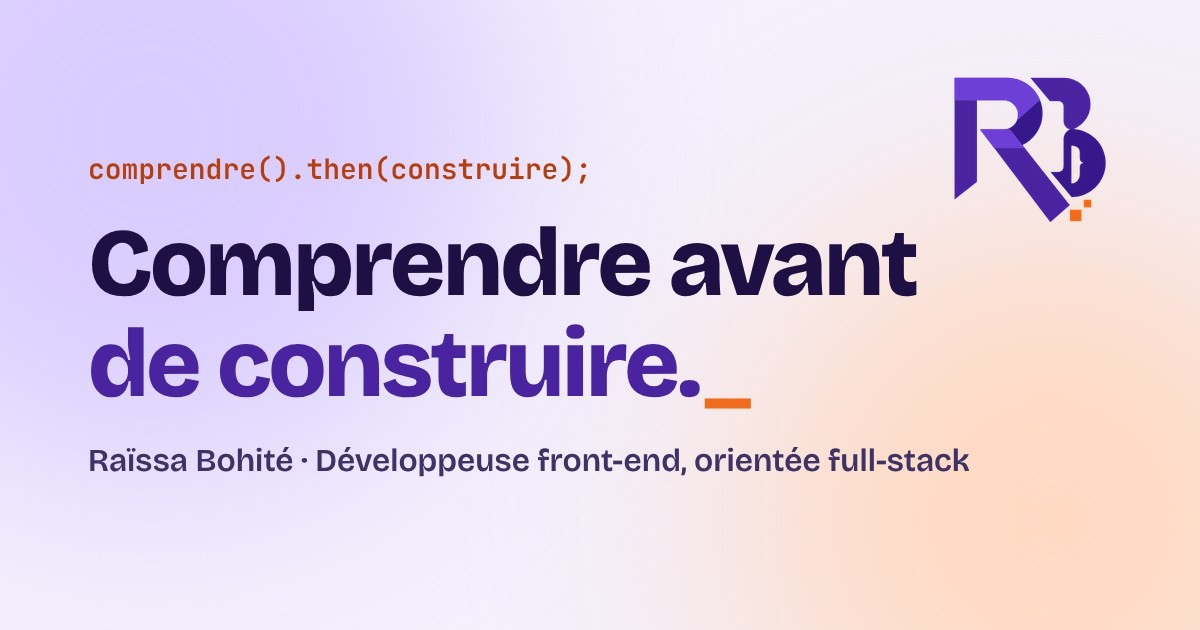
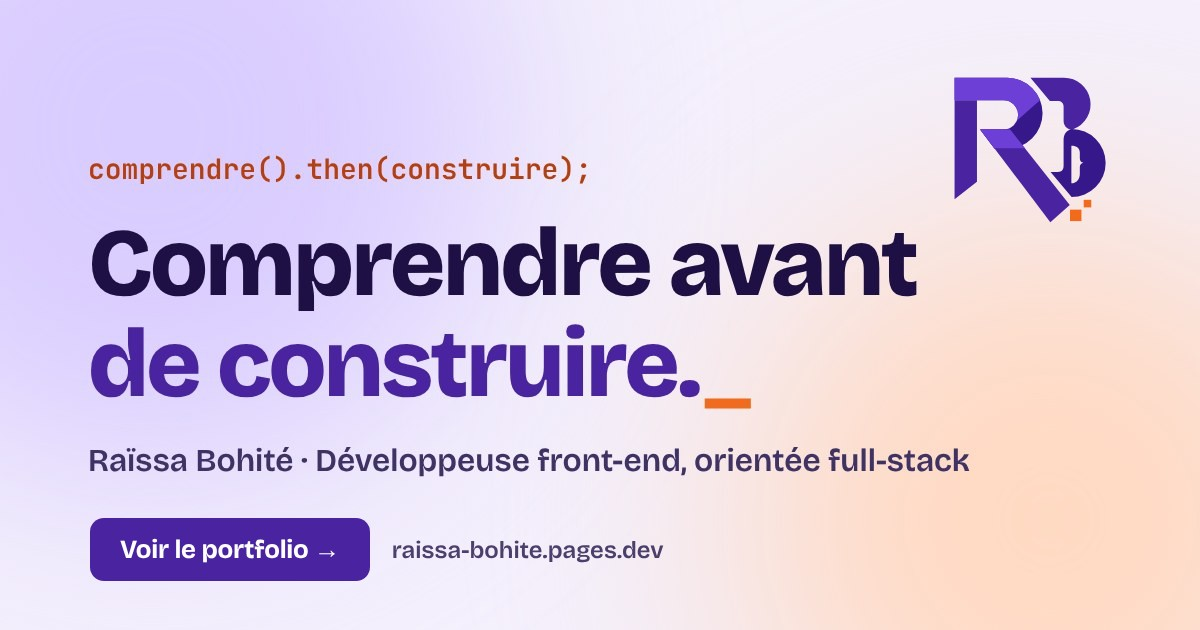
feat: add a call to action to the social image and shorten home descriptions
Claude-Session: https://claude.ai/code/session_01D16CuuDxEnBE1zydCRyRzs

Changed region(s): [[0.0617, 0.8143, 0.3083, 0.9349], [0.3392, 0.8444, 0.555, 0.9048]]

diff --git a/src/i18n/dictionaries/de.ts b/src/i18n/dictionaries/de.ts
@@ -4,7 +4,7 @@ export const de: Dictionary = {
   meta: {
     homeTitle: 'Raïssa Bohité · Front-End-Entwicklerin mit Full-Stack-Fokus',
     homeDescription:
-      'Klare, barrierefreie und sichere Oberflächen und Dashboards. Entdecken Sie meine Projekte: Fassbar, Yofeii Délices, Ateliya, Moomen Pro.',
+      'Klare, barrierefreie und sichere Oberflächen und Dashboards. Projekte: Fassbar, Yofeii Délices, Ateliya, Moomen Pro.',
     portraitAlt: 'Porträt von Raïssa Bohité',
     socialImageAlt: 'RB-Logo von Raïssa Bohité und ihr Motto: verstehen, bevor man baut'
   },

diff --git a/src/i18n/dictionaries/fr.ts b/src/i18n/dictionaries/fr.ts
@@ -9,7 +9,7 @@ const dictionary = {
   meta: {
     homeTitle: "Raïssa Bohité · Développeuse front-end, orientée full-stack",
     homeDescription:
-      "Interfaces et tableaux de bord clairs, accessibles et sécurisés. Découvrez mes projets : Fassbar, Yofeii Délices, Ateliya, Moomen Pro.",
+      "Interfaces et tableaux de bord clairs, accessibles et sécurisés. Projets : Fassbar, Yofeii Délices, Ateliya, Moomen Pro.",
     portraitAlt: "Portrait de Raïssa Bohité",
     socialImageAlt: "Logo RB de Raïssa Bohité et sa devise : comprendre avant de construire",
   },
